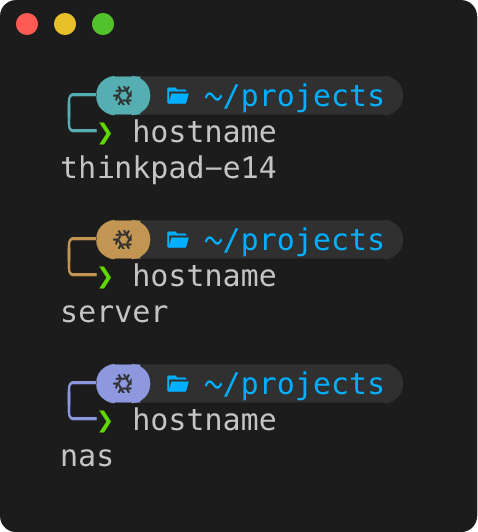
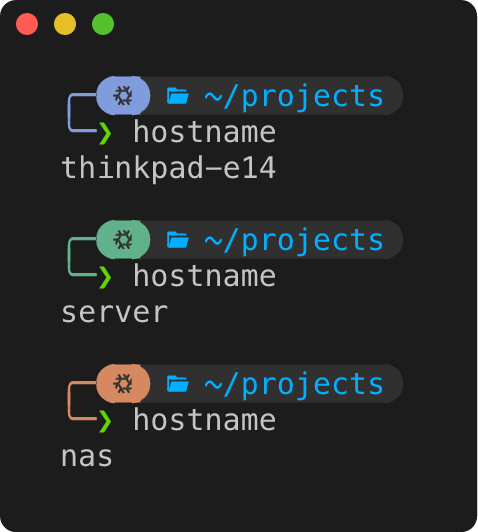
docs: update colors for byte hashing

diff --git a/README.md b/README.md
@@ -12,9 +12,9 @@ in tone.
 
 ```bash
 $ hostcolor
-#55AEB2
+#819CDD
 $ hostcolor server
-#C39553
+#61B18A
 $ hostcolor -f fg            # ANSI escape setting the foreground
 $ hostcolor -f bg -s 0.8     # background, more saturated
 ```
